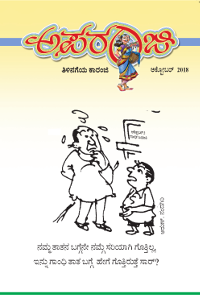
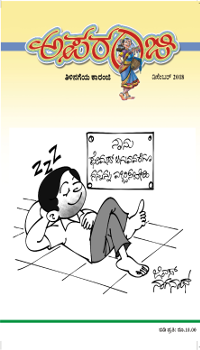
Decemer issue updated

diff --git a/php/comments.php b/php/comments.php
@@ -1,74 +1,72 @@
 <!DOCTYPE html>
 <html>
-
 <head>
-<meta charset="utf-8">
-<title>ಅಪರಂಜಿ</title>
-<link rel="shortcut icon" href="images/aplogo.ico">
-<link href="style/reset.css"  rel="stylesheet"/>
-<link href="style/indexstyle.css?v=2.0"  rel="stylesheet"/>
-<script src="https://www.google.com/jsapi?key=ABQIAAAAcP3BWYkyhZsTIzwblwhrBhQ17cNcFve0HJQEIuu7pPDwQg6guRRne1XhHL7iYTOvNIwFI-KsDQZ-qg" ></script>
-<script  src="js/trans_load.js?v=1.0"></script>
-<script src='https://www.google.com/recaptcha/api.js'></script>
+	<meta charset="utf-8">
+	<title>ಅಪರಂಜಿ</title>
+	<link rel="shortcut icon" href="images/aplogo.ico">
+	<link href="style/reset.css"  rel="stylesheet"/>
+	<link href="style/indexstyle.css?v=2.0"  rel="stylesheet"/>
+	<script src="https://www.google.com/jsapi?key=ABQIAAAAcP3BWYkyhZsTIzwblwhrBhQ17cNcFve0HJQEIuu7pPDwQg6guRRne1XhHL7iYTOvNIwFI-KsDQZ-qg" ></script>
+	<script  src="js/trans_load.js?v=1.0"></script>
+	<script src='https://www.google.com/recaptcha/api.js'></script>
 </head>
 
 <body>
-<div class="page">
-	<div class="header">
-		<div id="headnav">
-			<ul>
-				<li><a href="register.php">Register</a></li>
-				<li>|</li>
-				<li><a href="javascript:void(0);">Font Help</a></li>
-				<li>|</li>
-				<li><a href="javascript:void(0);">Site Map</a></li>
-				<li>|</li>
-				<li><a href="javascript:void(0);">Terms of Use</a></li>
-				<li>|</li>
-				<li><a href="contact.php">Contact us</a></li>
-			</ul>
+	<div class="page">
+		<div class="header">
+			<div id="headnav">
+				<ul>
+					<li><a href="register.php">Register</a></li>
+					<li>|</li>
+					<li><a href="javascript:void(0);">Font Help</a></li>
+					<li>|</li>
+					<li><a href="javascript:void(0);">Site Map</a></li>
+					<li>|</li>
+					<li><a href="javascript:void(0);">Terms of Use</a></li>
+					<li>|</li>
+					<li><a href="contact.php">Contact us</a></li>
+				</ul>
+			</div>
+			<div class="logo">
+				<img src="../php/images/logo.png" alt="Koravanji Logo"/>
+			</div>
+			<div class="title"><img src="../php/images/title.png" alt="Aparanji"/></div>
+			<div class="ruler_div"></div>
+			<div class="follow">
+				<a title="Facebook" href="javascript:void(0);"><img src="../php/images/fb.png" alt="Facebook"/></a>&nbsp;&nbsp;&nbsp;&nbsp;<a title="Twitter" href="javascript:void(0);"><img src="../php/images/tw1.png" alt="Twitter"/></a>&nbsp;&nbsp;&nbsp;&nbsp;<a title="RSS" href="javascript:void(0);"><img src="../php/images/rss.png" alt="RSS"/></a>
+			</div>		
+			<div class="about">ಇಪ್ಪತ್ತೈದು ವರ್ಷಗಳ ಕಾಲ ಕನ್ನಡ<br />ನಗೆ ರಸಿಕರನ್ನು ರಂಜಿಸಿ ಕಾಡಿಗೆ ತೆರಳಿದ ಕೊರವಂಜಿ, ಈಗ<br />ಅಪರಂಜಿಯಾಗಿ ಅಂತರ್ಜಾಲಕ್ಕೆ ಆಗಮಿಸಿದ್ದಾಳೆ. ಬರಮಾಡಿಕೊಳ್ಳಿ.</div>
+			<div class="nav">
+				<ul>
+					<li><a href="../index.php">ಪ್ರಾರಂಭ</a></li>
+					<li><a href="about.php">ಕೊರವಂಜಿ-ಅಪರಂಜಿ</a></li>
+					<li><a href="edit_board.php">ಅಪರಂಜಿ ಬಳಗ</a></li>
+					<li><a href="gallery.php">ಚಿತ್ರಗಳು</a></li>
+					<li><a class="active" href="comments.php">ನಿಮ್ಮ ಅನಿಸಿಕೆಗಳು</a></li>
+					<li><a href="volumes.php">ಹಿಂದಿನ ಸಂಚಿಕೆಗಳು</a></li>
+				</ul>
+			</div>		
 		</div>
-		<div class="logo">
-			<img src="../php/images/logo.png" alt="Koravanji Logo"/>
-		</div>
-		<div class="title"><img src="../php/images/title.png" alt="Aparanji"/></div>
-		<div class="ruler_div"></div>
-		<div class="follow">
-			<a title="Facebook" href="javascript:void(0);"><img src="../php/images/fb.png" alt="Facebook"/></a>&nbsp;&nbsp;&nbsp;&nbsp;<a title="Twitter" href="javascript:void(0);"><img src="../php/images/tw1.png" alt="Twitter"/></a>&nbsp;&nbsp;&nbsp;&nbsp;<a title="RSS" href="javascript:void(0);"><img src="../php/images/rss.png" alt="RSS"/></a>
-		</div>		
-		<div class="about">ಇಪ್ಪತ್ತೈದು ವರ್ಷಗಳ ಕಾಲ ಕನ್ನಡ<br />ನಗೆ ರಸಿಕರನ್ನು ರಂಜಿಸಿ ಕಾಡಿಗೆ ತೆರಳಿದ ಕೊರವಂಜಿ, ಈಗ<br />ಅಪರಂಜಿಯಾಗಿ ಅಂತರ್ಜಾಲಕ್ಕೆ ಆಗಮಿಸಿದ್ದಾಳೆ. ಬರಮಾಡಿಕೊಳ್ಳಿ.</div>
-		<div class="nav">
-			<ul>
-				<li><a href="../index.php">ಪ್ರಾರಂಭ</a></li>
-				<li><a href="about.php">ಕೊರವಂಜಿ-ಅಪರಂಜಿ</a></li>
-				<li><a href="edit_board.php">ಅಪರಂಜಿ ಬಳಗ</a></li>
-				<li><a href="gallery.php">ಚಿತ್ರಗಳು</a></li>
-				<li><a class="active" href="comments.php">ನಿಮ್ಮ ಅನಿಸಿಕೆಗಳು</a></li>
-				<li><a href="volumes.php">ಹಿಂದಿನ ಸಂಚಿಕೆಗಳು</a></li>
-			</ul>
-		</div>		
-	</div>
-	<div class="mainpage">
-		<div class="about">
-			<form method="POST" action="sendMail.php">
-				<input name="name" type="text" class="com_name" id="name" placeholder="ಹೆಸರು" REQUIRED><br />
-				<input name="email" type="email" class="com_email" id="email"  placeholder="ಇ-ಮೇಲ್" REQUIRED><br />
-				<p class="com_title"><span class="com_title"><span class="english">Type in Kannada (Press Ctrl+g to toggle between English and Kannada)</span></span></p>
-				<textarea name="message" rows="4" class="com_text" id="message" REQUIRED style="line-height: 1.5em; font-family: Arial, Helvetica, sans-serif; font-size: 14px;"></textarea><br />
-				
-				<div class="g-recaptcha" data-sitekey="6Lf6QTYUAAAAAJ12VwYJ52C9Kq0zQUdwBjXuSy-q"></div>
+		<div class="mainpage">
+			<div class="about">
+				<form method="POST" action="sendMail.php">
+					<input name="name" type="text" class="com_name" id="name" placeholder="ಹೆಸರು" REQUIRED><br />
+					<input name="email" type="email" class="com_email" id="email"  placeholder="ಇ-ಮೇಲ್" REQUIRED><br />
+					<p class="com_title"><span class="com_title"><span class="english">Type in Kannada (Press Ctrl+g to toggle between English and Kannada)</span></span></p>
+					<textarea name="message" rows="4" class="com_text" id="message" REQUIRED style="line-height: 1.5em; font-family: Arial, Helvetica, sans-serif; font-size: 14px;"></textarea><br />
 
-				<input name="com_button" type="submit" class="com_submit" id="com_button" value="Send Feedback">
-			</form>
-		</div>
-		<?php
+					<div class="g-recaptcha" data-sitekey="6Lf6QTYUAAAAAJ12VwYJ52C9Kq0zQUdwBjXuSy-q"></div>
+
+					<input name="com_button" type="submit" class="com_submit" id="com_button" value="Send Feedback">
+				</form>
+			</div>
+			<?php
 			include("currentissue.php");
+			?>
+		</div>
+		<?php
+		include("footer.php");
 		?>
 	</div>
-		<?php
-			include("footer.php");
-		?>
-</div>
 </body>
-
 </html>

diff --git a/index.php b/index.php
@@ -91,7 +91,7 @@ session_start();
 			echo "		  </div>
 				</div>";
 				
-			echo "<div class=\"cover\"><a href=\"Volumes/".$currentyear."_".$currentmonth.".pdf#page=1\" target=\"_blank\"><img src=\"php/images/cover.png\" alt=\"".$month[$currentmonth-1]."\" title=\"".$month[$currentmonth-1]." ಸಂಚಿಕೆ\"/></a></div>";
+			echo "<div class=\"cover\"><a href=\"Volumes/".$currentyear."_".$currentmonth.".pdf#page=1\" target=\"_blank\"><img src=\"php/images/cover1.png\" alt=\"".$month[$currentmonth-1]."\" title=\"".$month[$currentmonth-1]." ಸಂಚಿಕೆ\"/></a></div>";
 		?>
 			
 		
